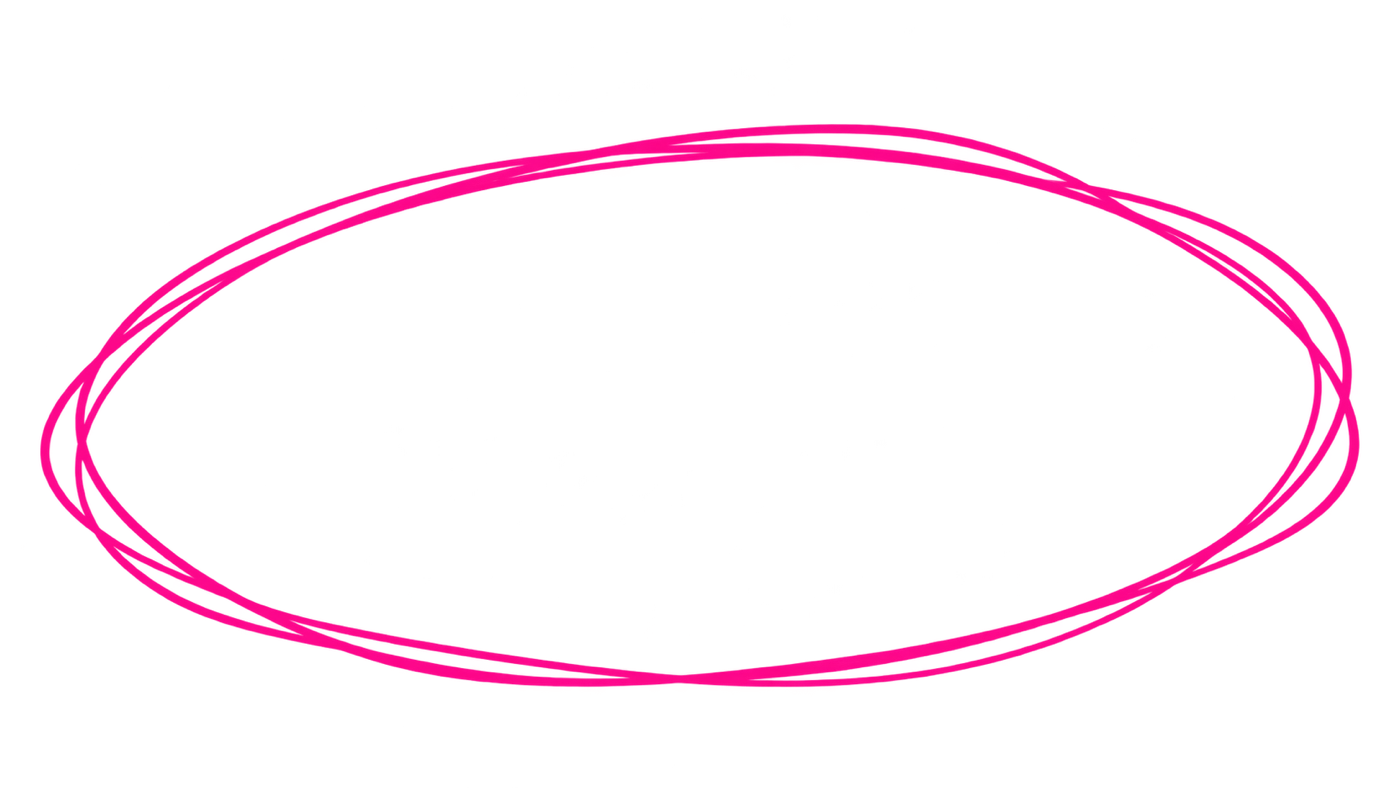
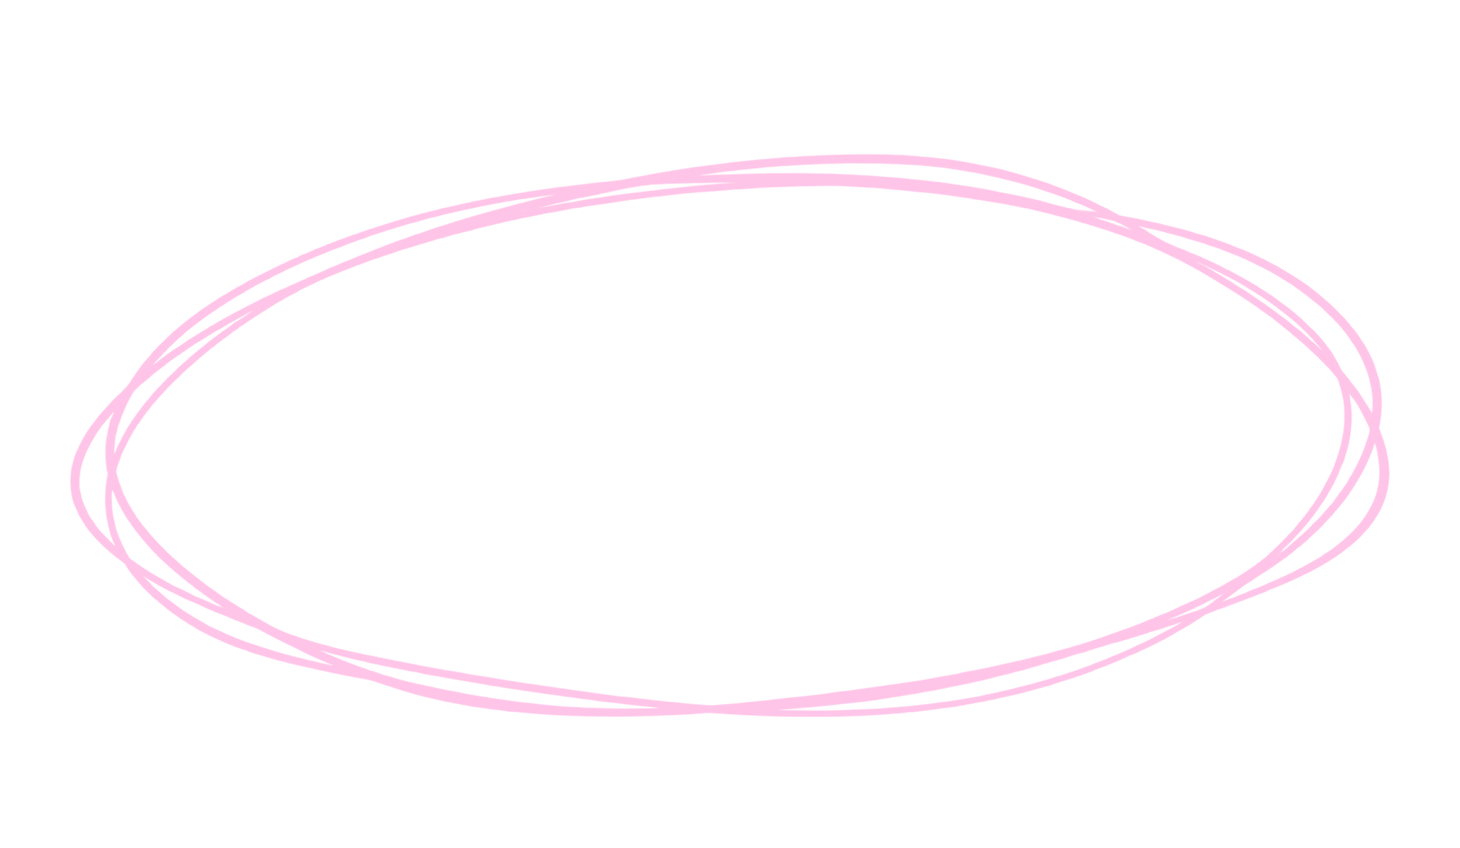
Archives circle in brand blush, uncropped; unhighlight 'making'
- Recolour the Archives scribble to --blush (#FFC4E8) and show it whole (contain + margin)
- Founder copy: 'making' sits outside the pink highlight

Changed region(s): [[0.0307, 0.1523, 0.9829, 0.8832]]

diff --git a/css/home.css b/css/home.css
@@ -224,7 +224,8 @@ html.menu-open,html.menu-open body{overflow:hidden}
 .reel-sound[aria-pressed="true"] .on{display:inline}
 .reel-sound[aria-pressed="true"]{background:rgba(221,232,92,.9);color:#052416;border-color:transparent}
 .arch-sosh{left:calc(482*var(--u));top:calc(211*var(--u));font-family:var(--fr);font-weight:700;font-size:calc(158.44*var(--u));line-height:calc(158.44*var(--u));color:var(--moss)}
-.arch-circle{left:calc(502*var(--u));top:calc(270*var(--u));width:calc(488*var(--u));height:calc(302*var(--u));object-fit:cover}
+/* whole scribble shown (contain + transparent margin in the PNG), so its ends are never cropped */
+.arch-circle{left:calc(466*var(--u));top:calc(259*var(--u));width:calc(560*var(--u));height:calc(325*var(--u));object-fit:contain}
 .arch-archives{left:calc(560*var(--u));top:calc(354*var(--u));font-family:var(--fr);font-weight:700;font-style:italic;font-size:calc(116.34*var(--u));line-height:calc(116.34*var(--u));color:var(--moss)}
 .arch-sub{left:calc(758*var(--u));top:calc(525*var(--u));width:calc(192*var(--u));text-align:right;font-family:var(--fr9);font-style:italic;font-size:calc(20.12*var(--u));line-height:calc(32.19*var(--u));color:var(--cocoa)}
 
@@ -400,7 +401,7 @@ html.menu-open,html.menu-open body{overflow:hidden}
   .phone video,.phone .video-poster{left:calc(7*var(--u));top:calc(17*var(--u));width:calc(166*var(--u));height:calc(349*var(--u));border-radius:calc(20*var(--u))}
   .reel-sound{right:calc(17*var(--u));bottom:calc(30*var(--u));width:calc(34*var(--u));height:calc(34*var(--u))}
   .arch-sosh{left:calc(12*var(--u));top:calc(470*var(--u));width:calc(222*var(--u));text-align:center;font-size:calc(79.39*var(--u));line-height:calc(71.45*var(--u))}
-  .arch-circle{left:calc(99*var(--u));top:calc(505*var(--u));width:calc(257*var(--u));height:calc(144*var(--u))}
+  .arch-circle{left:calc(93.5*var(--u));top:calc(499*var(--u));width:calc(268*var(--u));height:calc(156*var(--u))}
   .arch-archives{left:calc(99*var(--u));top:calc(546*var(--u));width:calc(281*var(--u));text-align:center;font-size:calc(65.57*var(--u));line-height:calc(59.02*var(--u))}
   .arch-sub{left:calc(205*var(--u));top:calc(635*var(--u));width:calc(162*var(--u));font-size:calc(15.54*var(--u));line-height:calc(24.86*var(--u))}
 
@@ -540,7 +541,7 @@ html.menu-open,html.menu-open body{overflow:hidden}
   .phone video,.phone .video-poster{left:calc(39*var(--u));top:calc(25*var(--u));width:calc(206*var(--u));height:calc(443*var(--u));border-radius:calc(26*var(--u))}
   .reel-sound{right:calc(52*var(--u));bottom:calc(44*var(--u));width:calc(40*var(--u));height:calc(40*var(--u))}
   .arch-sosh{left:calc(229*var(--u));top:calc(212*var(--u));width:calc(246*var(--u));text-align:center;font-size:calc(74.74*var(--u));line-height:calc(74.74*var(--u))}
-  .arch-circle{left:calc(281*var(--u));top:calc(245*var(--u));width:calc(266*var(--u));height:calc(149*var(--u))}
+  .arch-circle{left:calc(275.5*var(--u));top:calc(239*var(--u));width:calc(277*var(--u));height:calc(161*var(--u))}
   .arch-archives{left:calc(275*var(--u));top:calc(277*var(--u));width:calc(285*var(--u));text-align:center;font-size:calc(71.52*var(--u));line-height:calc(71.52*var(--u))}
   .arch-sub{left:calc(380*var(--u));top:calc(375*var(--u));width:calc(163*var(--u));font-size:calc(18.45*var(--u));line-height:calc(29.52*var(--u))}
 

diff --git a/home.html b/home.html
@@ -5,9 +5,9 @@
 <meta name="viewport" content="width=device-width, initial-scale=1.0, viewport-fit=cover">
 <title>home | Sosh Media</title>
 <link rel="icon" href="assets/img/logo.png">
-<script src="js/units.js?v=53"></script>
-<link rel="stylesheet" href="css/fonts.css?v=53">
-<link rel="stylesheet" href="css/home.css?v=53">
+<script src="js/units.js?v=55"></script>
+<link rel="stylesheet" href="css/fonts.css?v=55">
+<link rel="stylesheet" href="css/home.css?v=55">
 </head>
 <body>
 
@@ -204,7 +204,7 @@
   <div class="founder-copy">
     <p>SOSH MEDIA started with a simple idea: <b><i>brands deserve better than generic content.</i></b></p>
     <p>What began as freelance consulting grew into a creative studio working across fashion, beauty, lifestyle, and culture.</p>
-    <p>Today, we help brands <i>build stronger digital identities</i> through strategy, storytelling, and social-first content that truly connects, <b><mark><i>making SOSH the creative home it is today</i>.</mark></b></p>
+    <p>Today, we help brands <i>build stronger digital identities</i> through strategy, storytelling, and social-first content that truly connects, <b><i>making</i> <mark><i>SOSH the creative home it is today</i>.</mark></b></p>
   </div>
 </section>
 
@@ -258,8 +258,8 @@
 </main>
 
 <script src="js/vendor/lenis.min.js"></script>
-<script src="js/plane.js?v=53"></script>
-<script src="js/home.js?v=53"></script>
-<script src="js/form.js?v=53"></script>
+<script src="js/plane.js?v=55"></script>
+<script src="js/home.js?v=55"></script>
+<script src="js/form.js?v=55"></script>
 </body>
 </html>

diff --git a/index.html b/index.html
@@ -5,9 +5,9 @@
 <meta name="viewport" content="width=device-width, initial-scale=1.0, viewport-fit=cover">
 <title>intro | Sosh Media</title>
 <link rel="icon" href="assets/img/logo.png">
-<script src="js/units.js?v=53"></script>
-<link rel="stylesheet" href="css/fonts.css?v=53">
-<link rel="stylesheet" href="css/intro.css?v=53">
+<script src="js/units.js?v=55"></script>
+<link rel="stylesheet" href="css/fonts.css?v=55">
+<link rel="stylesheet" href="css/intro.css?v=55">
 </head>
 <body>
 
